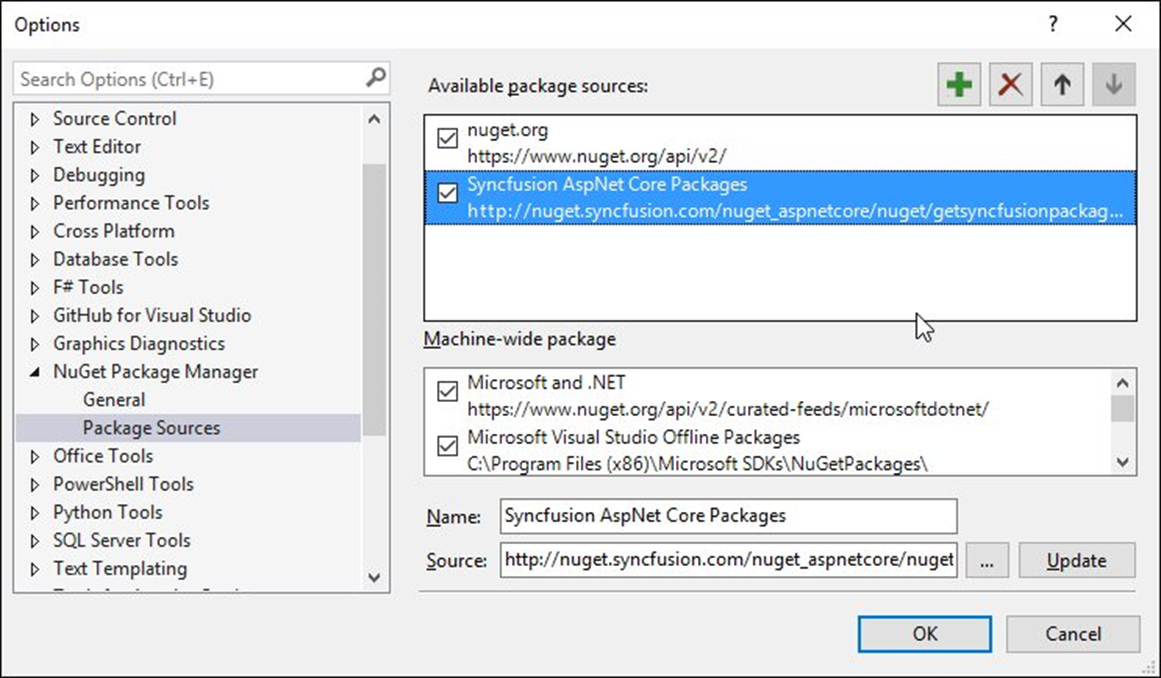
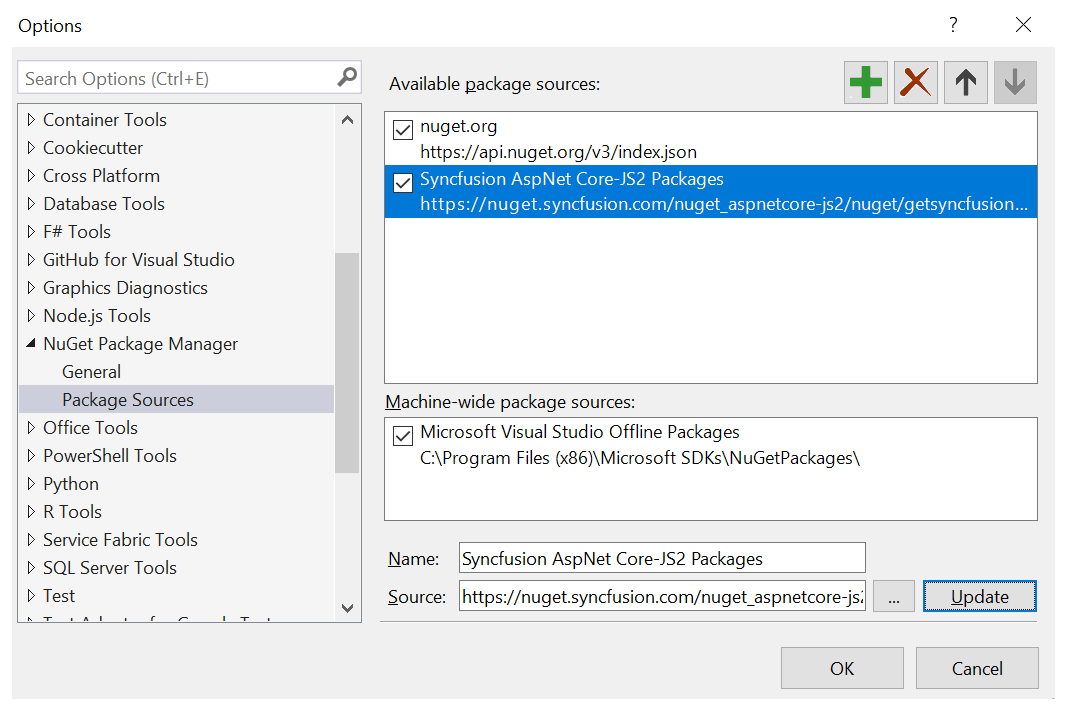
EXT-3461-NuGet-Feed-Changes

Changed region(s): [[0.0, 0.0, 1.0, 1.0]]

diff --git a/Extension/Syncfusion-NuGet-Packages/NuGet-Packages.md b/Extension/Syncfusion-NuGet-Packages/NuGet-Packages.md
@@ -43,7 +43,7 @@ You should get the private Syncfusion NuGet feed URL to install or upgrade the S
     
     **Source:** Syncfusion NuGet Feed URL      
 
-    For example, Name: Syncfusion AspNet Core Packages, Source: [http://nuget.syncfusion.com/nuget_aspnetcore/nuget/getsyncfusionpackages/aspnetcore](http://nuget.syncfusion.com/nuget_aspnetcore/nuget/getsyncfusionpackages/aspnetcore).
+    For example, Name: Syncfusion AspNet Core-js2 Packages, Source: [https://nuget.syncfusion.com/nuget_aspnetcore-js2/nuget/getsyncfusionpackages/aspnetcore-js2](https://nuget.syncfusion.com/nuget_aspnetcore-js2/nuget/getsyncfusionpackages/aspnetcore-js2).
 
 5.	Click the **Update** button to add the name and source details to package sources. 
 
@@ -67,7 +67,7 @@ You should get the private Syncfusion NuGet feed URL to install or upgrade the S
     
     **Source:** Syncfusion NuGet Feed URL      
 
-    For example, Name: Syncfusion ASP.NET Core Packages, Source: [http://nuget.syncfusion.com/nuget_aspnetcore/nuget/getsyncfusionpackages/aspnetcore](http://nuget.syncfusion.com/nuget_aspnetcore/nuget/getsyncfusionpackages/aspnetcore).
+    For example, Name: Syncfusion ASP.NET Core Packages, Source: [https://nuget.syncfusion.com/nuget_aspnetcore-js2/nuget/getsyncfusionpackages/aspnetcore-js2](https://nuget.syncfusion.com/nuget_aspnetcore-js2/nuget/getsyncfusionpackages/aspnetcore-js2).
     
 	![](NuGet_Packages_Images/img5.png)
  
@@ -117,7 +117,7 @@ To reference the Syncfusion component using the Package Manager Console as NuGet
     Install-Package Syncfusion.EJ.AspNet.Core
 
     #install specified package in default project with specified Package Source
-    Install-Package Syncfusion.EJ.AspNet.Core -Source “http://nuget.syncfusion.com/nuget_aspnetcore/nuget/getsyncfusionpackages/aspnetcore”
+    Install-Package Syncfusion.EJ.AspNet.Core -Source “https://nuget.syncfusion.com/nuget_aspnetcore-js2/nuget/getsyncfusionpackages/aspnetcore-js2”
 
     #install specified package in specified project 
     Install-Package Syncfusion.EJ.AspNet.Core -ProjectName SyncfusionDemoApplication
@@ -165,10 +165,10 @@ The NuGet Command Line Interface (CLI), nuget.exe, provides the full extent of N
 
     ~~~
     #For Windows platform
-    nuget.exe Sources Add –Name “Syncfusion Source” –Source “http://nuget.syncfusion.com/nuget_aspnetcore/nuget/getsyncfusionpackages/aspnetcore”
+    nuget.exe Sources Add –Name “Syncfusion Source” –Source “https://nuget.syncfusion.com/nuget_aspnetcore-js2/nuget/getsyncfusionpackages/aspnetcore-js2”
 
     #For MAC/Linux platform
-    mono nuget.exe Sources Add –Name “Syncfusion Source” –Source “http://nuget.syncfusion.com/nuget_aspnetcore/nuget/getsyncfusionpackages/aspnetcore”
+    mono nuget.exe Sources Add –Name “Syncfusion Source” –Source “https://nuget.syncfusion.com/nuget_aspnetcore-js2/nuget/getsyncfusionpackages/aspnetcore-js2”
     ~~~
 
 ### NuGet installation
@@ -195,7 +195,7 @@ nuget.exe install “Syncfusion.EJ.AspNet.Core”
 nuget.exe install “C:\Users\SyncfusionApplication\package.config”
 
 #install specific Syncfusion ASP.NET Core NuGet package with Syncfusion ASP.NET Core NuGet feed for Windows 
-nuget.exe install “Syncfusion.EJ.AspNet.Core”  –Source http://nuget.syncfusion.com/nuget_aspnetcore/nuget/getsyncfusionpackages/aspnetcore”
+nuget.exe install “Syncfusion.EJ.AspNet.Core”  –Source https://nuget.syncfusion.com/nuget_aspnetcore-js2/nuget/getsyncfusionpackages/aspnetcore-js2”
 
 #install specific package for Mac and Linux 
 mono nuget.exe install “ Syncfusion.EJ.AspNet.Core”
@@ -204,7 +204,7 @@ mono nuget.exe install “ Syncfusion.EJ.AspNet.Core”
 mono nuget.exe install “C:\Users\SyncfusionApplication\package.config”
 
 #install specific Syncfusion ASP.NET Core NuGet package with Syncfusion ASP.NET Core NuGet feed for Mac and Linux 
-mono nuget.exe install “Syncfusion.EJ.AspNet.Core”  –Source “http://nuget.syncfusion.com/nuget_aspnetcore/nuget/getsyncfusionpackages/aspnetcore”
+mono nuget.exe install “Syncfusion.EJ.AspNet.Core”  –Source “https://nuget.syncfusion.com/nuget_aspnetcore-js2/nuget/getsyncfusionpackages/aspnetcore-js2”
 ~~~
 
 ## Managing NuGet package using Dotnet CLI
@@ -225,7 +225,7 @@ The NuGet Command Line Interface (CLI), Dotnet.exe, provides the full extent of 
     **For example :**
 
     ~~~        
-    dotnet add package Syncfusion.EJ.AspNet.Core  -s “http://nuget.syncfusion.com/nuget_aspnetcore/nuget/getsyncfusionpackages/aspnetcore”
+    dotnet add package Syncfusion.EJ.AspNet.Core  -s “https://nuget.syncfusion.com/nuget_aspnetcore-js2/nuget/getsyncfusionpackages/aspnetcore-js2”
     ~~~
 
     **Restore**
@@ -324,7 +324,7 @@ To update the installed Syncfusion NuGet packages using the Package Manager Cons
     Update-Package Syncfusion.EJ.AspNet.Core
 
     #Update specified package in default project with specified Package Source
-    Update-Package Syncfusion.EJ.AspNet.Core –Source “http://nuget.syncfusion.com/nuget_aspnetcore/nuget/getsyncfusionpackages/aspnetcore” 
+    Update-Package Syncfusion.EJ.AspNet.Core –Source “https://nuget.syncfusion.com/nuget_aspnetcore-js2/nuget/getsyncfusionpackages/aspnetcore-js2” 
     #Update specified package in specified project 
     Update-Package Syncfusion.EJ.AspNet.Core -ProjectName SyncfusionDemoApplication
     ~~~
@@ -360,7 +360,7 @@ Using the NuGet CLI, all the NuGet packages in the project can be updated to the
     nuget update “C:\Users\SyncfusionApplication\package.config”
 
     #Update all NuGet packages from specified Packages Source
-    nuget update -Source “http://nuget.syncfusion.com/nuget_aspnetcore/nuget/getsyncfusionpackages/aspnetcore”
+    nuget update -Source “https://nuget.syncfusion.com/nuget_aspnetcore-js2/nuget/getsyncfusionpackages/aspnetcore-js2”
     ~~~
 
     N> Update command is not working as expected in Mono (Mac and Linux) and projects using PackageReference format.
